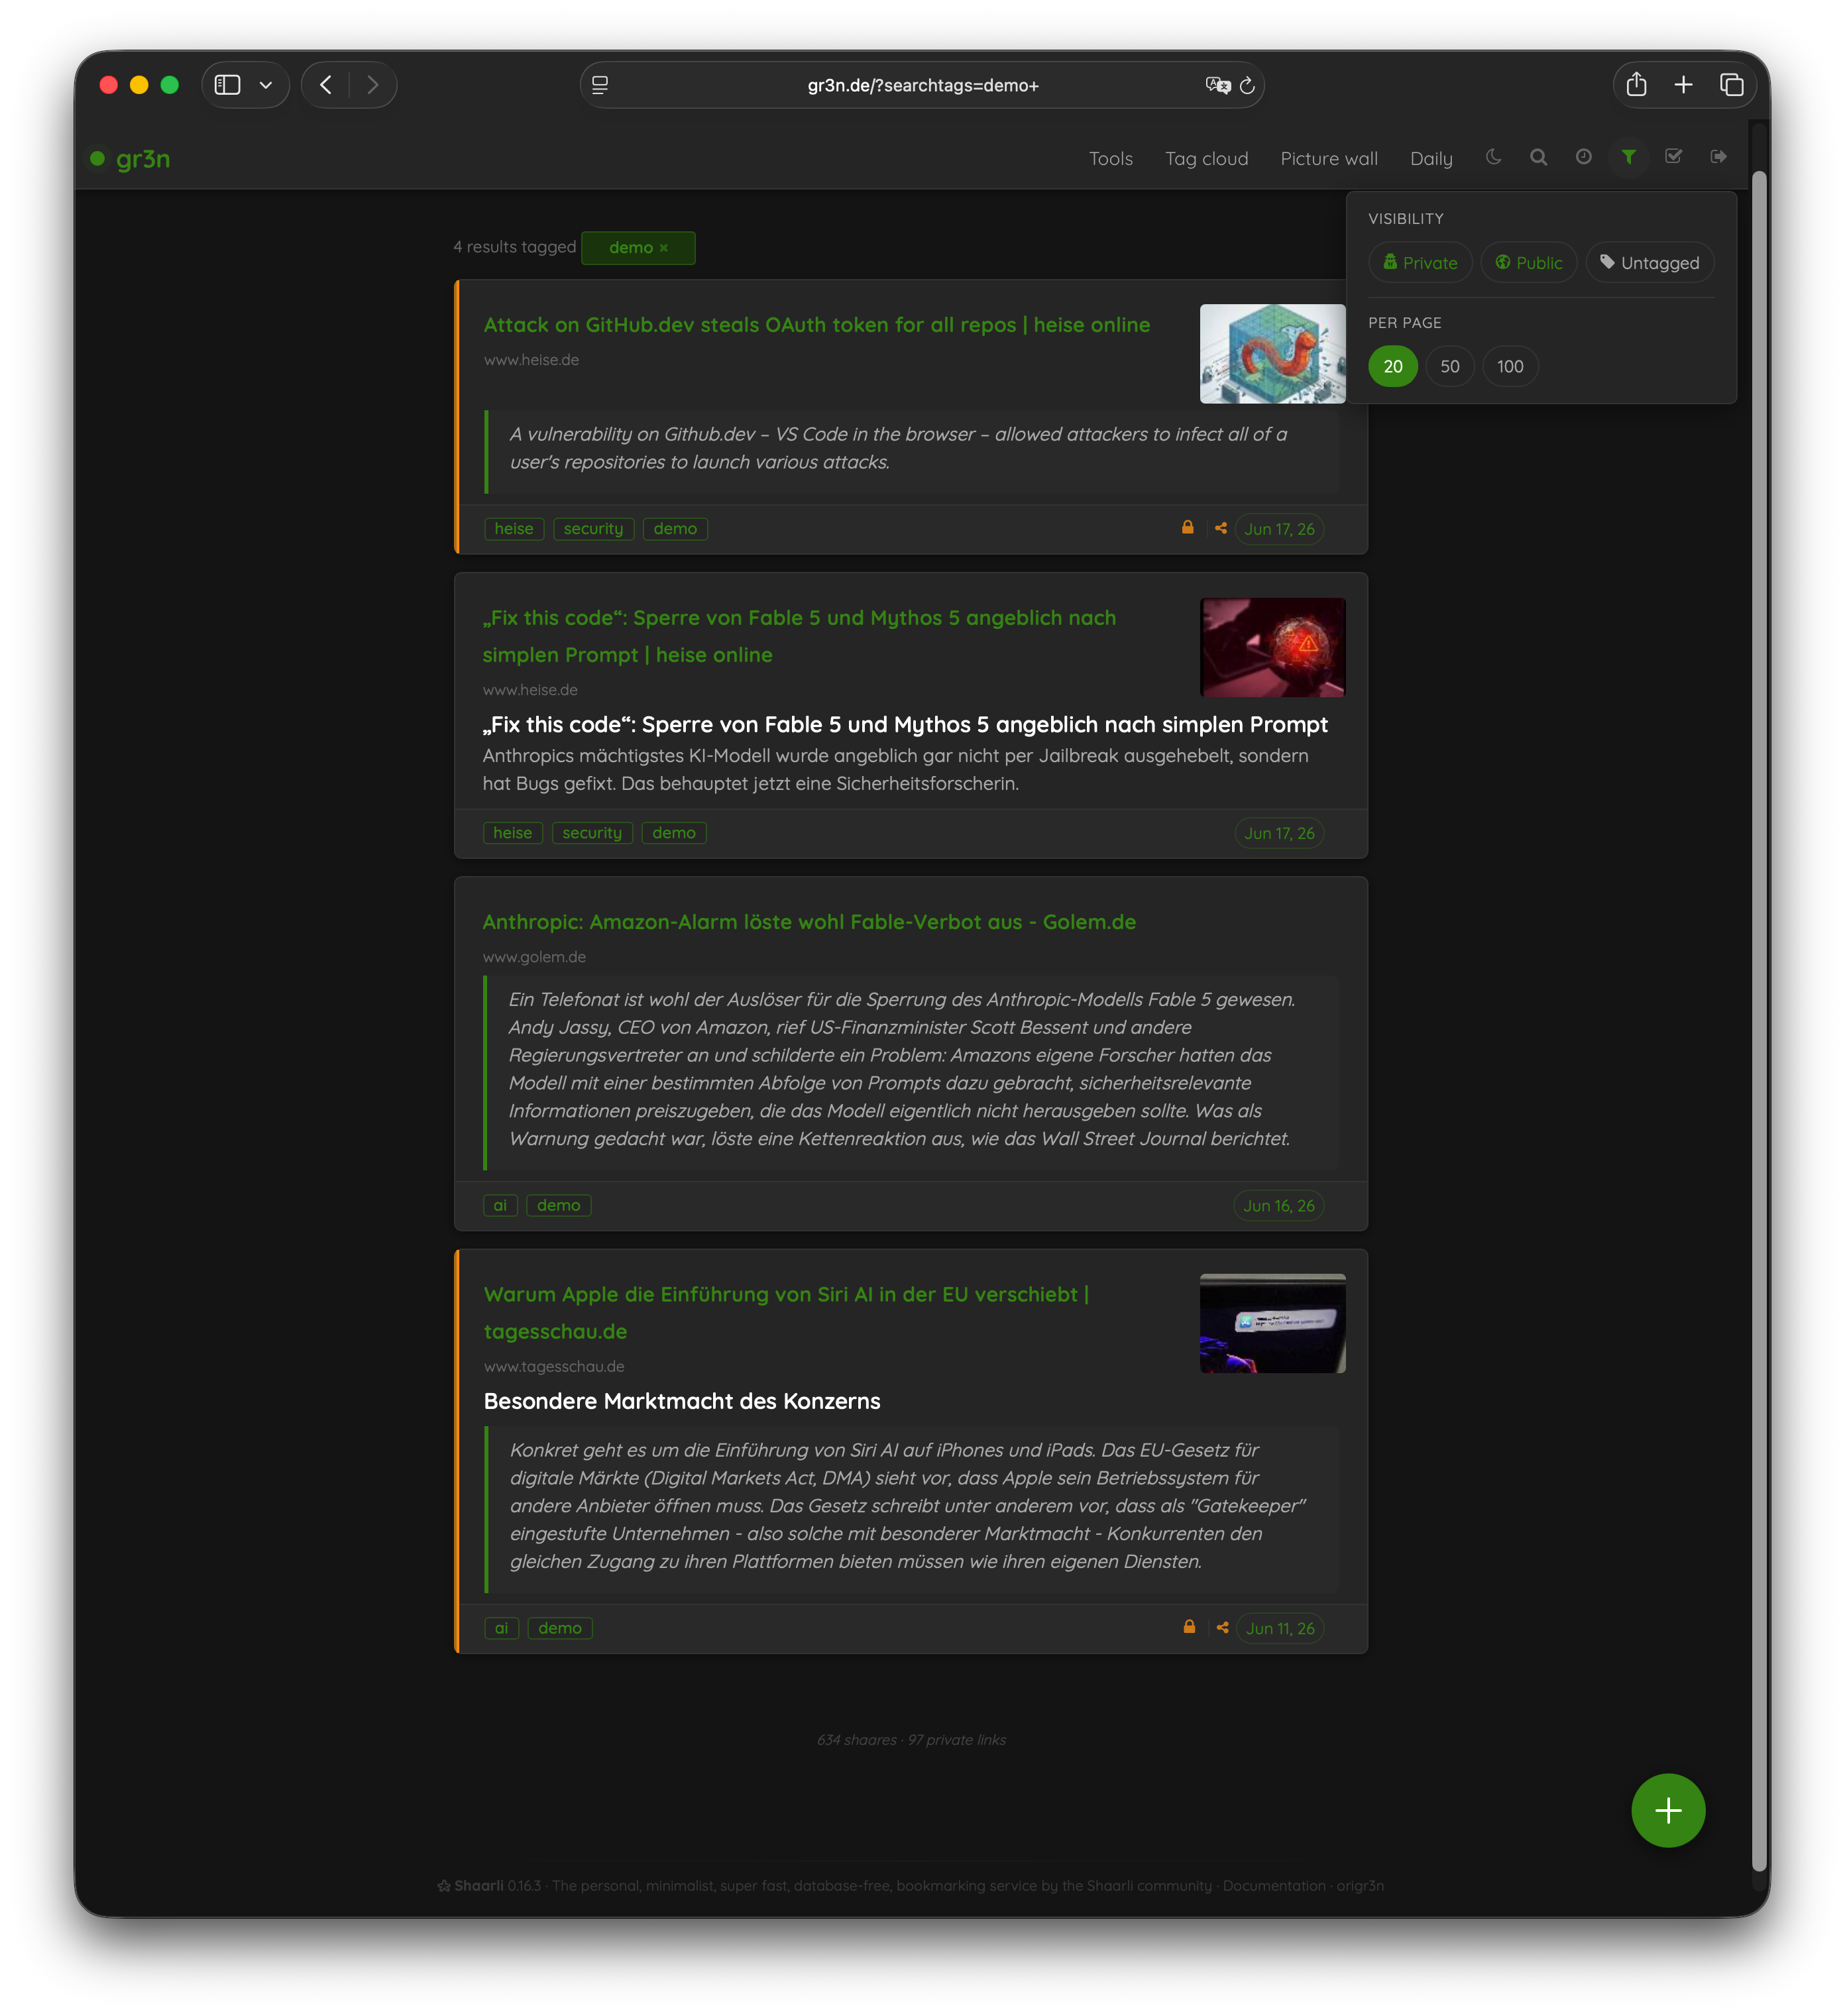
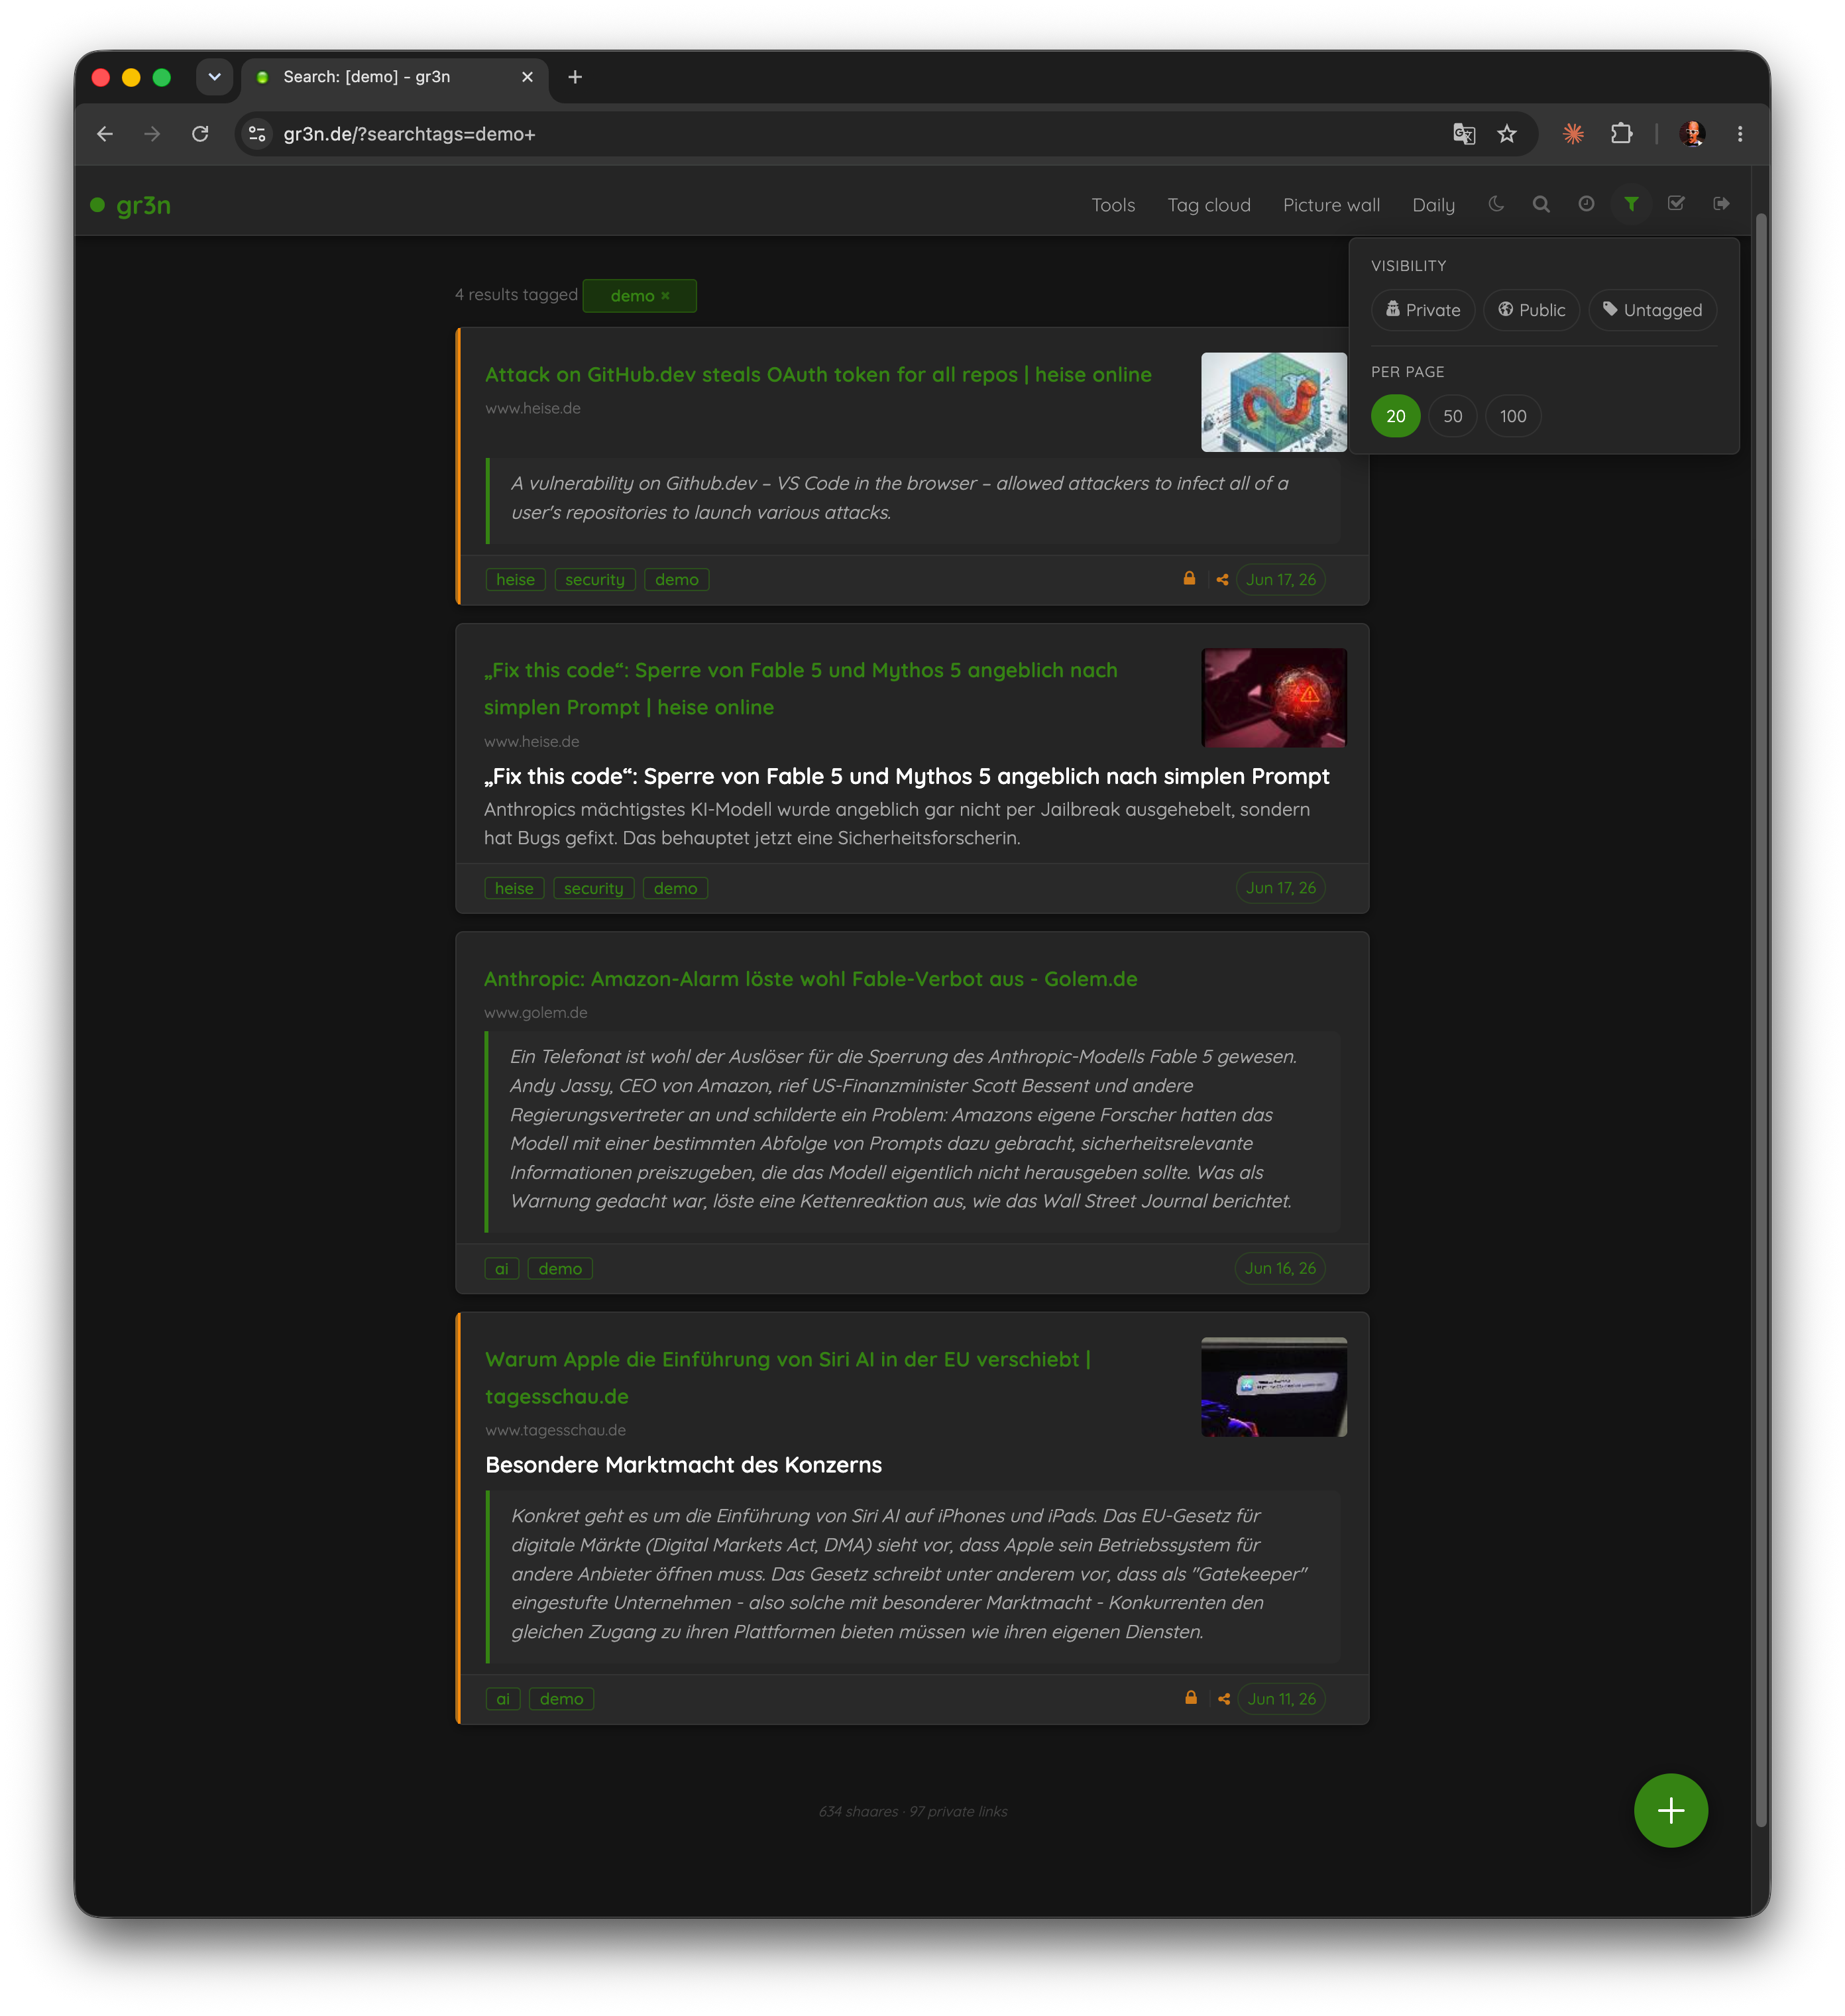
fix(css): filter pills no longer green after browser visit + update screenshot
.filter-pill:visited was inheriting the global a:visited color (--color-primary),
making Private/Public pills appear green in Safari after the visibility fix test
session. Added explicit .filter-pill:visited override to keep pills neutral unless
the Shaarli .active class is present. (r=259)

Also replaces filter-panel.png with a Chrome screenshot showing the correct
neutral state (no visibility filter active).

diff --git a/origr3n/css/origr3n.css b/origr3n/css/origr3n.css
@@ -714,6 +714,9 @@ body:has(#linklist) li:has(> #shaarli-menu-shaare) {
   text-decoration: none !important;
   transition: background 0.15s, color 0.15s, border-color 0.15s;
 }
+.filter-pill:visited {
+  color: var(--text-secondary);
+}
 .filter-pill:hover,
 .filter-pill:visited:hover {
   border-color: var(--color-primary);

diff --git a/origr3n/includes.html b/origr3n/includes.html
@@ -19,7 +19,7 @@
 {if="strpos($formatter, 'markdown') !== false"}
   <link type="text/css" rel="stylesheet" href="{$asset_path}/css/markdown.min.css?v={$version_hash}#" />
 {/if}
-<link type="text/css" rel="stylesheet" href="{$asset_path}/css/origr3n.css?r=258#" />
+<link type="text/css" rel="stylesheet" href="{$asset_path}/css/origr3n.css?r=259#" />
 {loop="$plugins_includes.css_files"}
   <link type="text/css" rel="stylesheet" href="{$root_path}/{$value}?v={$version_hash}#"/>
 {/loop}

diff --git a/CHANGELOG.md b/CHANGELOG.md
@@ -12,6 +12,8 @@ The format is based on [Keep a Changelog](https://keepachangelog.com/en/1.0.0/).
 
 - **Visibility filter preserves search context** — Clicking Private/Public in the filter panel previously redirected via HTTP Referer, which Cloudflare and some browsers strip, causing the search query (`?searchtags=…`) to be lost. Fixed via `fetch()` to set the session flag, then explicit redirect back to `window.location.pathname + search`. (r=19)
 
+- **Filter panel pills no longer inherit `:visited` color** — global `a:visited { color: var(--color-primary) }` caused visited filter pills to appear green in browsers that cache the `/admin/visibility/` URLs. Added explicit `.filter-pill:visited { color: var(--text-secondary) }` override. (r=259)
+
 - **Filter panel labels now follow browser language** — "Sichtbarkeit", "privat", "öffentlich", "ohne Tag", "pro Seite" were hardcoded in `page.header.html`. Moved `_lang`/`_i18n`/`_t` to the IIFE top level (shared across all modules); `initFilterPanel()` now translates section labels and pill text via JS on init. JS cache-busting bumped to `r=18`.
 
 ### Added (2026-06-23)